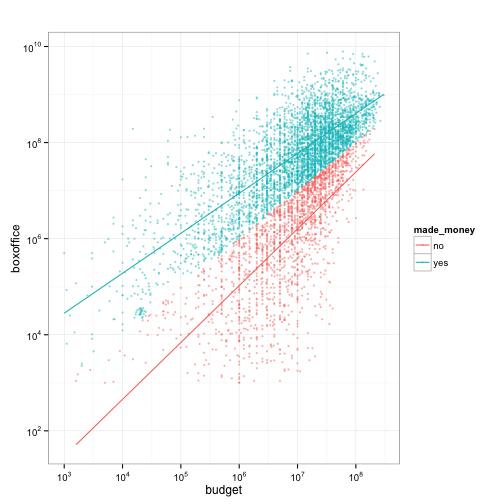
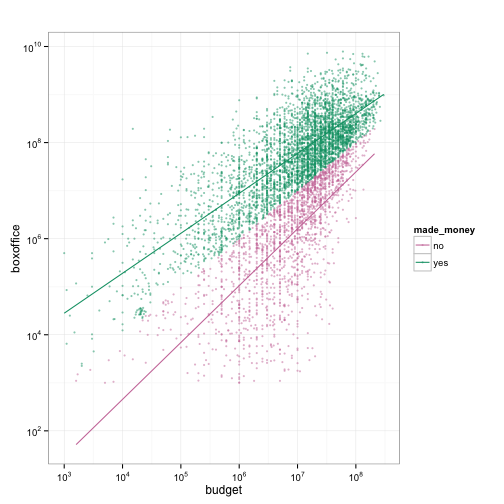
update ezplot-part7

diff --git a/_posts/r/2015-07-27-how-to-easily-make-ggplot2-scatterplot-ezplot-part7.md b/_posts/r/2015-07-27-how-to-easily-make-ggplot2-scatterplot-ezplot-part7.md
@@ -37,8 +37,8 @@ p = plt("budget", "boxoffice", xlab="budget", ylab="boxoffice",
         main="Boxoffice vs. Budget")
 
 # use comma scale so that a number like "10000" is displayed as "10,000"
-p = scale_axis(p, "y", use_comma=T)
-p = scale_axis(p, "x", use_comma=T)
+p = scale_axis(p, "y", scale = "comma")
+p = scale_axis(p, "x", scale = "comma")
 print(p)
 {% endhighlight %}
 
@@ -49,8 +49,8 @@ print(p)
 {% highlight r %}
 p = plt("budget", "boxoffice", xlab="budget", ylab="boxoffice", 
         pt_alpha=0.2, pt_size=1.5, add_line=T, linew=0.8)
-p = scale_axis(p, "x", use_log10=T)
-p = scale_axis(p, "y", use_log10=T)
+p = scale_axis(p, "x", scale = "log10")
+p = scale_axis(p, "y", scale = "log10")
 print(p)
 {% endhighlight %}
 
@@ -63,9 +63,13 @@ Note we also changed the transparency and size of the points by passing values t
 {% highlight r %}
 p = plt("budget", "boxoffice", fillby="made_money", ylab="boxoffice", 
         xlab="budget", add_line=T, linew=0.5)
-p = scale_axis(p, "x", use_log10=T)
-p = scale_axis(p, "y", use_log10=T)
-print(p)
+p = scale_axis(p, "x", scale = "log10")
+p = scale_axis(p, "y", scale = "log10")
+
+# use color-blind friendly color
+red = cb_color("reddish_purple")
+green = cb_color("bluish_green")
+p + ggplot2::scale_color_manual(values=c(red, green))
 {% endhighlight %}
 
 ![center](/../figs/2015-07-27-how-to-easily-make-ggplot2-scatterplot-ezplot-part7/unnamed-chunk-4-1.png) 
